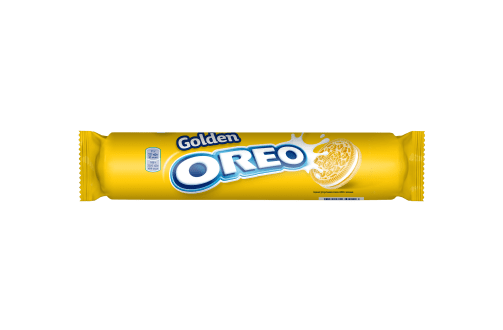
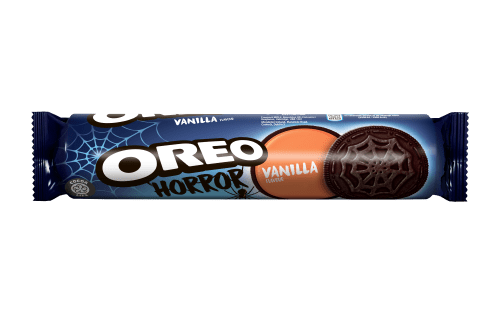
new product

Changed region(s): [[0.0596, 0.3333, 0.9543, 0.6364]]

diff --git a/perekrestok-product.html b/perekrestok-product.html
@@ -108,7 +108,7 @@
 							<div class="product-img">
 								<img src="img/products/10.png" alt="">
 							</div>
-							<div class="product-name">Печенье OREO Golden с начинкой с ванильным вкусом <span>154г</span></div>
+							<div class="product-name">Печенье OREO с какао и начинкой оранжевого цвета с ванильным вкусом <span>154г</span></div>
 						</div>
 						<div class="product">
 							<div class="product-img">

diff --git a/product.html b/product.html
@@ -132,7 +132,7 @@
 							<div class="product-img">
 								<img src="img/products/10.png" alt="">
 							</div>
-							<div class="product-name">Печенье OREO Golden с начинкой с ванильным вкусом <span>154г</span></div>
+							<div class="product-name">Печенье OREO с какао и начинкой оранжевого цвета с ванильным вкусом <span>154г</span></div>
 						</div>
 						<div class="product">
 							<div class="product-img">
